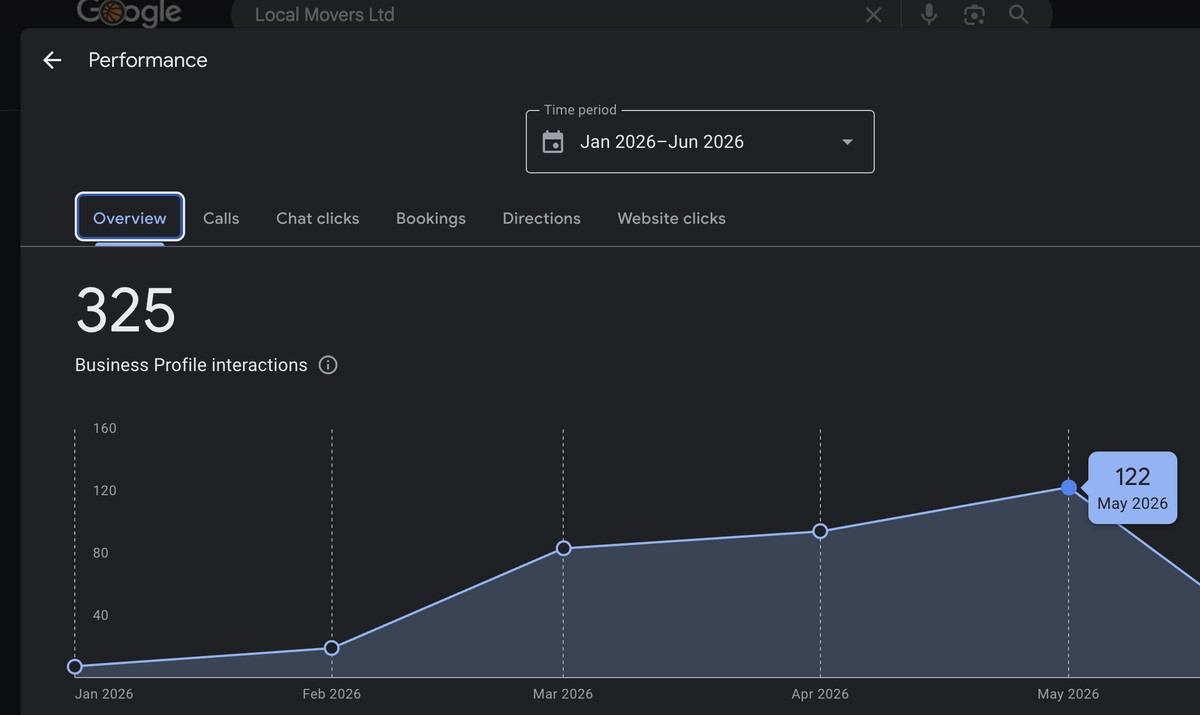
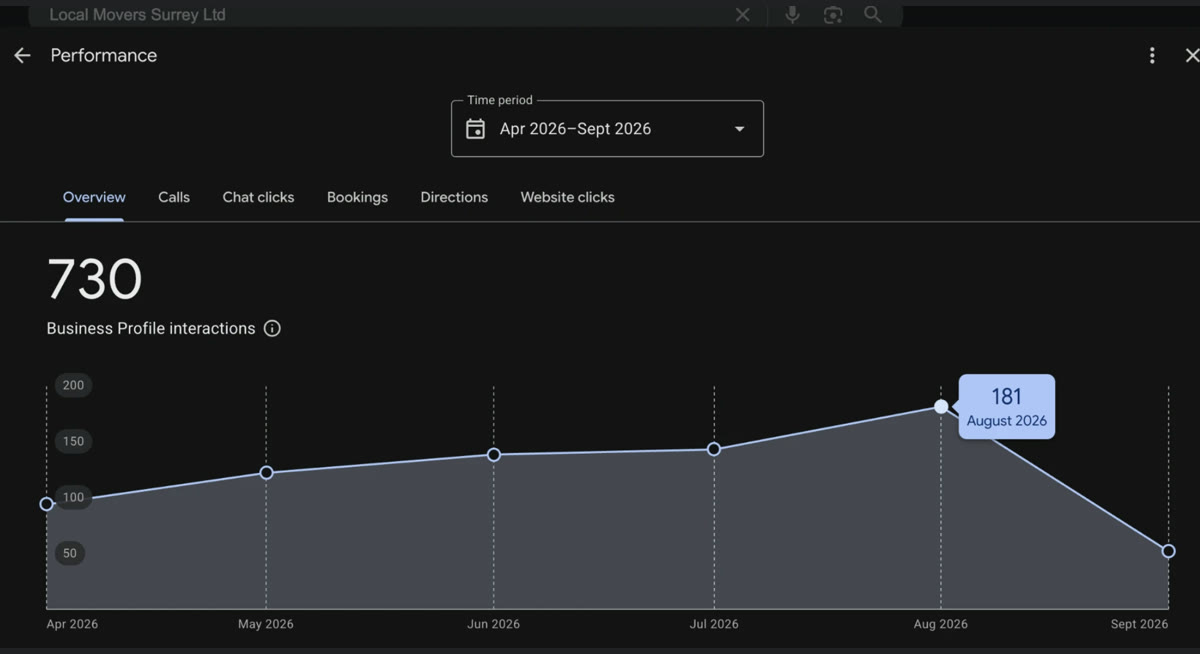
Current GBP numbers on the homepage, captured 2026-09-17
The proof section was showing Jan to Jun 2026: 325 interactions and 70 calls.
Local Movers has since roughly tripled both. Replaced with the Apr to Sept 2026
window straight off the profiles:

  730 Business Profile interactions  (was 325)   peak 181 in August
  205 calls from the profile         (was 70)    peak 66 in August
  121 website clicks, Always Best Moving         peak 38 in August

All three screenshots keep the Google search bar showing which business they
belong to, and all three are normalised to 1200x654 so the cards and their text
baselines line up exactly. Verified at 1280px and 375px: cards identical size,
no horizontal overflow.

diff --git a/index.html b/index.html
@@ -353,10 +353,14 @@
 
 
 <!-- ============ REAL CALLS: GBP dashboards ============ -->
-<!-- Unretouched Google Business Profile performance screens from two client
-     profiles. Nothing here is redrawn and no number is typed that the chart
-     beside it does not print. Only two clients are shown because only two
-     could be traced to their own profile with certainty. -->
+<!-- Unretouched Google Business Profile performance screens, captured
+     2026-09-17 for the window Apr to Sept 2026. Nothing is redrawn and no
+     number is typed that the chart beside it does not print. Each screen keeps
+     the Google search bar showing which business it belongs to, which is the
+     whole point: the reader can see it is a real profile and not our chart.
+     Every business shown is a CURRENT client. Serve Ninja was here until
+     2026-09-17 and came off the roster on 2026-08-19, so their numbers were a
+     former client's. Do not put a former client back in this section. -->
 <section id="calls">
   <div class="rail">
     <div class="head mid">
@@ -369,22 +373,22 @@
     <div class="gbp-grid">
 
       <article class="gbp-card">
-        <img class="gbp-shot" src="assets/gbp/local-movers-interactions.jpg" width="1200" height="715"
-             alt="Google Business Profile performance screen for Local Movers Ltd showing 325 Business Profile interactions from January to June 2026" loading="lazy" decoding="async">
+        <img class="gbp-shot" src="assets/gbp/local-movers-interactions.jpg" width="1200" height="654"
+             alt="Google Business Profile performance screen for Local Movers Surrey Ltd showing 730 Business Profile interactions from April to September 2026, peaking at 181 in August" loading="lazy" decoding="async">
         <div class="gbp-body">
-          <p class="gbp-n">325</p>
+          <p class="gbp-n">730</p>
           <p class="gbp-l">Business Profile interactions</p>
-          <p class="gbp-w">Surrey mover &middot; Jan to Jun 2026</p>
+          <p class="gbp-w">Surrey mover &middot; Apr to Sept 2026</p>
         </div>
       </article>
 
       <article class="gbp-card">
-        <img class="gbp-shot" src="assets/gbp/local-movers-calls.jpg" width="1200" height="716"
-             alt="Google Business Profile Calls tab for Local Movers Ltd showing 70 calls made from the profile between January and June 2026" loading="lazy" decoding="async">
+        <img class="gbp-shot" src="assets/gbp/local-movers-calls.jpg" width="1200" height="654"
+             alt="Google Business Profile Calls tab for Local Movers Surrey Ltd showing 205 calls made from the profile between April and September 2026, peaking at 66 in August" loading="lazy" decoding="async">
         <div class="gbp-body">
-          <p class="gbp-n">70</p>
+          <p class="gbp-n">205</p>
           <p class="gbp-l">Calls made from the profile</p>
-          <p class="gbp-w">Same Surrey mover &middot; Jan to Jun 2026</p>
+          <p class="gbp-w">Same Surrey mover &middot; Apr to Sept 2026</p>
         </div>
       </article>
 
